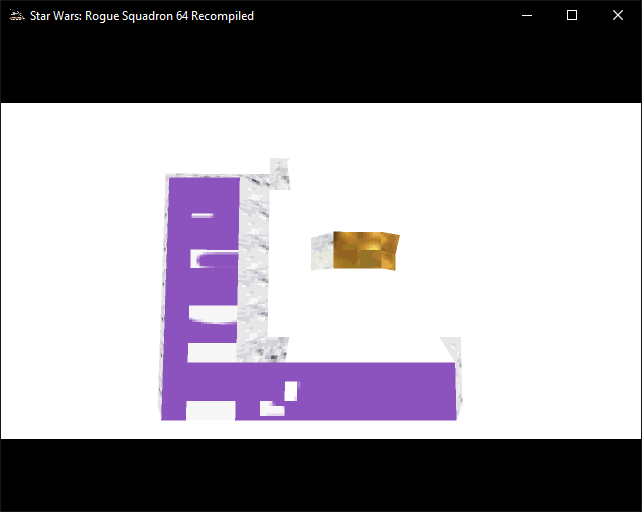
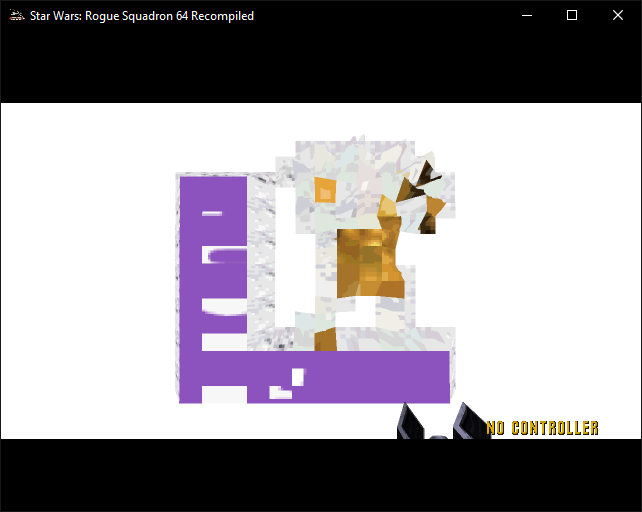
Add RT64 raster env knobs, F5 entity ID mapping
Expose RT64 raster configuration and F5 interpolation helpers.

- docs: document new env vars (ROGUESQ_F5_NON, ROGUESQ_F5_INTERP, MSAA, RES_SCALE, SSAA, WIDESCREEN/ASPECT, HDR, TEX_FILTER, TEXTURE_PACK).
- src/main/rt64_render_context.cpp: read env vars into RT64::UserConfiguration, print diagnostics, and load replacement texture packs.
- src/main/upstream_compat.cpp: add level-scoped stable F5 entity ID map and scene-node helper for per-object interpolation (ROGUESQ_F5_ID_LOG).
- Add/update reference/progress screenshots.

Changed region(s): [[0.2492, 0.25, 0.9346, 0.875]]

diff --git a/src/main/rt64_render_context.cpp b/src/main/rt64_render_context.cpp
@@ -6,6 +6,7 @@
 #include <cstring>
 #include <string_view>
 #include <vector>
+#include <filesystem>
 
 #define HLSL_CPU
 #include "hle/rt64_application.h"
@@ -185,6 +186,64 @@ public:
         app->userConfig.developerMode = debug || dev_mode_on;
         app->userConfig.displayBuffering = RT64::UserConfiguration::DisplayBuffering::Triple;
 
+        // Phase 0 RT64 raster enhancements (config-only; opt-in via env/--set so the default
+        // baseline is unchanged). See plans/rt64-f5-integration-plan.md.
+        {
+            using UC = RT64::UserConfiguration;
+            // ROGUESQ_MSAA=2|4|8: multisample anti-aliasing (default off).
+            if (const char* v = std::getenv("ROGUESQ_MSAA")) {
+                int s = std::atoi(v);
+                app->userConfig.antialiasing = (s >= 8) ? UC::Antialiasing::MSAA8X
+                                             : (s >= 4) ? UC::Antialiasing::MSAA4X
+                                             : (s >= 2) ? UC::Antialiasing::MSAA2X
+                                                        : UC::Antialiasing::None;
+                fprintf(stderr, "[RT64] MSAA=%ux\n", UC::msaaSampleCount(app->userConfig.antialiasing));
+            }
+            // ROGUESQ_RES_SCALE=<mult>: internal render-resolution multiplier (Manual).
+            if (const char* v = std::getenv("ROGUESQ_RES_SCALE")) {
+                double m = std::atof(v);
+                if (m > 0.0) {
+                    app->userConfig.resolution = UC::Resolution::Manual;
+                    app->userConfig.resolutionMultiplier = m;
+                    fprintf(stderr, "[RT64] resolutionMultiplier=%.2f\n", m);
+                }
+            }
+            // ROGUESQ_SSAA=<n>: supersample/downsample factor (>=2 sharper, costlier).
+            if (const char* v = std::getenv("ROGUESQ_SSAA")) {
+                int d = std::atoi(v);
+                if (d >= 1) { app->userConfig.downsampleMultiplier = d; fprintf(stderr, "[RT64] downsample=%d\n", d); }
+            }
+            // ROGUESQ_ASPECT=<w/h> forces a ratio; ROGUESQ_WIDESCREEN=1 expands to the window.
+            if (const char* v = std::getenv("ROGUESQ_ASPECT")) {
+                double a = std::atof(v);
+                if (a > 0.0) {
+                    app->userConfig.aspectRatio = UC::AspectRatio::Manual;
+                    app->userConfig.aspectTarget = a;
+                    fprintf(stderr, "[RT64] aspect=Manual %.4f\n", a);
+                }
+            } else if (const char* w = std::getenv("ROGUESQ_WIDESCREEN")) {
+                if (w[0] && w[0] != '0') {
+                    app->userConfig.aspectRatio = UC::AspectRatio::Expand;
+                    fprintf(stderr, "[RT64] aspect=Expand\n");
+                }
+            }
+            // ROGUESQ_HDR=1: high internal color format.
+            if (const char* v = std::getenv("ROGUESQ_HDR")) {
+                if (v[0] && v[0] != '0') {
+                    app->userConfig.internalColorFormat = UC::InternalColorFormat::High;
+                    fprintf(stderr, "[RT64] HDR internal color format\n");
+                }
+            }
+            // ROGUESQ_TEX_FILTER=nearest|linear|aa: texture filtering.
+            if (const char* v = std::getenv("ROGUESQ_TEX_FILTER")) {
+                std::string_view s(v);
+                if (s == "nearest") app->userConfig.filtering = UC::Filtering::Nearest;
+                else if (s == "linear") app->userConfig.filtering = UC::Filtering::Linear;
+                else if (s == "aa") app->userConfig.filtering = UC::Filtering::AntiAliasedPixelScaling;
+                fprintf(stderr, "[RT64] filtering=%s\n", v);
+            }
+        }
+
         // PresentEarly ON by default. Our cinematic stays on a single VI fb
         // address; without PresentEarly, RT64's updateScreen only pushes a
         // present when VI changes or RDRAM at VI_ORIGIN changes — neither
@@ -245,6 +304,21 @@ public:
                     (int)app->enhancementConfig.f3dex.forceBranch,
                     (int)app->enhancementConfig.textureLOD.scale);
             fflush(stderr);
+
+            // Phase 1: texture packs. ROGUESQ_TEXTURE_PACK=<dir-or-zip> loads an RT64 replacement
+            // directory (rt64.json + DDS/PNG). F5 loads textures through the normal RDP TMEM path, so
+            // RT64's content hashes are stable and replacements resolve the same as a stock-ucode game.
+            // See plans/rt64-f5-integration-plan.md.
+            if (const char* tp = std::getenv("ROGUESQ_TEXTURE_PACK")) {
+                if (tp[0] && app->textureCache) {
+                    std::vector<RT64::ReplacementDirectory> dirs;
+                    dirs.emplace_back(std::filesystem::path(tp));
+                    bool ok = app->textureCache->loadReplacementDirectories(dirs);
+                    app->textureCache->textureMap.replacementMapEnabled = ok;
+                    fprintf(stderr, "[RT64] texture pack '%s' load %s\n", tp, ok ? "OK" : "FAILED");
+                    fflush(stderr);
+                }
+            }
         }
         if (app && app->appWindow) {
             // Diagnostic: dump the post-setup state of RT64's window/filter

diff --git a/src/main/upstream_compat.cpp b/src/main/upstream_compat.cpp
@@ -1370,6 +1370,45 @@ extern "C" void rs64_matpool_alloc_check(unsigned addr, unsigned size) {
 // 0x18-aligned from the pool base. Reports the FIRST corruption seen, plus
 // which texture-material function's entry detected it — so the corrupting
 // function can be bisected from the call sequence.
+// Phase 2 (RT64 per-object interpolation): level-scoped stable id map. Assigns a stable, unique id per
+// persistent gameplay entity (meshInstance pointer) — the identity RT64 interpolation matching needs. The
+// entity pointer is stable within a level (proven via the [lodsel] trace) but the heap reuses addresses
+// across levels, so the map is reset on level change (level id @ 0x80130B70). ROGUESQ_F5_ID_LOG logs
+// first-sightings so we can confirm the id set stabilizes (NEW lines stop after the first frame).
+// See plans/rt64-f5-integration-plan.md.
+static std::map<uint32_t, uint32_t> s_f5_id_map;
+static uint32_t s_f5_id_next = 1;
+static int      s_f5_id_level = -1;
+extern "C" uint32_t rs64_f5_entity_id(uint8_t* rdram, uint32_t entity) {
+    static int s_log = -1;
+    if (s_log < 0) { const char* e = std::getenv("ROGUESQ_F5_ID_LOG"); s_log = (e && *e && *e != '0') ? 1 : 0; }
+    int level = (int)MEM_BU(0, (gpr)(int32_t)0x80130B70);
+    if (level != s_f5_id_level) {
+        s_f5_id_level = level; s_f5_id_map.clear(); s_f5_id_next = 1;
+        if (s_log) { fprintf(stderr, "[f5id] level=%d -> id map reset\n", level); fflush(stderr); }
+    }
+    if (entity < 0x80000000u || entity >= 0x80800000u) return 0;
+    auto it = s_f5_id_map.find(entity);
+    if (it != s_f5_id_map.end()) return it->second;
+    uint32_t id = s_f5_id_next++;
+    s_f5_id_map.emplace(entity, id);
+    if (s_log) { fprintf(stderr, "[f5id] NEW entity=%08X -> id=%u (level=%d, total=%zu)\n",
+                         entity, id, level, s_f5_id_map.size()); fflush(stderr); }
+    return id;
+}
+
+// Broad-coverage variant: hook processSceneNode (the scene-graph per-node visitor). The scene NODE is
+// transient, but node->object (+0x8) is the persistent entity (deduped per frame via object+0x30). Reads
+// the object and assigns it a stable id via the shared level-scoped map. Skips transform/group nodes
+// (object == 0). Measures how much of the ~71-object set the scene graph actually covers vs the
+// per-NPC-type handlers. See plans/rt64-f5-integration-plan.md.
+extern "C" unsigned int rs64_f5_entity_id(uint8_t*, unsigned int);
+extern "C" void rs64_f5_scenenode_id(uint8_t* rdram, unsigned int node) {
+    if (node < 0x80000000u || node >= 0x80800000u) return;
+    unsigned int obj = (unsigned int)MEM_W(0, (gpr)(int32_t)(node + 0x8));
+    if (obj >= 0x80000000u && obj < 0x80800000u) rs64_f5_entity_id(rdram, obj);
+}
+
 extern "C" void rs64_matfreelist_check(uint8_t* rdram, const char* where) {
     static int s_on = -1;
     if (s_on < 0) {

diff --git a/docs/debug-trace-env-vars.md b/docs/debug-trace-env-vars.md
@@ -72,6 +72,8 @@ they're orthogonal to the log gates above but commonly co-used.
 | `ROGUESQ_SUPPRESS_OOB_CIMG` | off | When set, drops Factor 5 ucode emissions of bogus SET_COLOR_IMAGE commands at HIGH (≥ 0x800000) and LOW (< 0x100000) addresses before they reach RT64. Reduces the iter-810 memory spike but causes a visual regression — the 3D Factor 5 logo no longer renders, since some legitimate Factor 5 lowmem CIMGs are dropped along with the garbage. |
 | `ROGUESQ_FB_GUARDS` | on | Host framebuffer-window guards. Set `0` to disable for A/B comparison against hardware goldens. |
 | `ROGUESQ_F5_CHUNK_BOUND` | on | Factor 5 DL chunk-bounded fetch grammar rule. Set `0` to disable when diagnosing a DL desync. |
+| `ROGUESQ_F5_NON` | off | Force `NoN` (No-Near-clipping) for the Factor 5 ucode: `1` disables the GPU hard near-plane clip and uses the far-plane manual clamp instead. F5 uniquely ships `NoN=false`, so `depthClipEnabled=true` discards large geometry as it approaches the camera (objects "culled / lower-detail up close"). A/B fix for that symptom; matches every other `.NoN` ucode. Applied in `RSP::setGBI` (`lib/rt64/src/hle/rt64_rsp.cpp`). |
+| `ROGUESQ_F5_INTERP` | off | Give each Factor 5 object a stable per-object identity for RT64's 60 fps frame interpolation. F5 never stamps a matrix group, so every object defaults to `G_EX_ID_AUTO` and RT64 greedily geometry-matches similar moving ships across frames → mismatched-pair **smearing/trails** (worst on fast/close objects — the "worse up close" symptom). `1` stamps each per-object modelview (`op_01_matrix`) with a distinct `G_EX_ORDER_LINEAR` id + pos/rot/scale interpolation, resetting the draw-order counter on each projection load. Applied in `lib/rt64/src/gbi/rt64_gbi_f3dfactor5.cpp`. |
 | `ROGUESQ_LLE_FORCE` | off | Route `M_GFXTASK` through the recompiled RSP ucode + `dpc_bridge.cpp` instead of RT64 HLE. Diagnostic only — semi-broken (cinematic tasks hit an unhandled jump). Companions `ROGUESQ_LLE_UNGATED` (skip the attribution-page gate) and `ROGUESQ_LLE_SOLO` (skip the HLE fallthrough). |
 
 ### Boot / attract-demo navigation
@@ -85,6 +87,24 @@ game RDRAM each present, same pattern as the other pokes.
 | `ROGUESQ_CINE_FASTFWD` | `0` | Adds N extra ticks to the VI-retrace count (`0x8011A890`) each present while the intro cutscene is active and its `gateCtr` (`0x800B0B28`) is below the end threshold (`cutscene[0x44]-0xA`). Inflates the cinematic dt so the intro completes NATURALLY in seconds instead of ~6 min headless. Not a skip — the game still sets its own done bits. Use e.g. `=200`. |
 | `ROGUESQ_SKIP_DEMO` | (unset) | Pins `gGameSettings.demoId` (`0x80130B54`) = N (0-5) every present, and pins the wrap counter `unk15` (`0x80130B55`) = 0 so `cycleIdleDemoId` (`0x8006F044`) can't drift the selector — so the attract mode plays (and LOOPS) that demo directly, skipping earlier demos + transitions. `demoId`→level: **0**=Mos Eisley/Tatooine, **1**=Jade Moon, **2**=Kile II, **3**=Taloraan, **4**=Fest, **5**=Trench Run (`dLevelByDemoId` `0x800CD404` = `00 05 07 0A 0B 11`; `gDemoFilenames` `0x80109AE4`). Combine with `ROGUESQ_CINE_FASTFWD` to blast the intro. Example: `ROGUESQ_SKIP_DEMO=1 ROGUESQ_CINE_FASTFWD=200` → Jade Moon in ~2 min. Selector RE in [plans/jade-moon-demo-freeze-plan.md](../plans/jade-moon-demo-freeze-plan.md). |
 | `ROGUESQ_SKIP_TO_JADEMOON` | off | Convenience alias for `ROGUESQ_SKIP_DEMO=1` (the Jade Moon demo — has the structure-explosion freeze under investigation). |
+
+### RT64 raster enhancements (Phase 0)
+
+Opt-in `UserConfiguration` knobs applied in `create_render_context` (`src/main/rt64_render_context.cpp`)
+before `app->setup()`. Raster-only (this build has `RT_ENABLED` off — no RT/DLSS/FSR/XeSS). See
+[plans/rt64-f5-integration-plan.md](../plans/rt64-f5-integration-plan.md). Default baseline is unchanged
+unless set.
+
+| Env Var | Default | Effect |
+|---|---|---|
+| `ROGUESQ_MSAA` | off | Multisample anti-aliasing: `2`/`4`/`8` → MSAA 2x/4x/8x (rounds down; `<2` = None). |
+| `ROGUESQ_RES_SCALE` | (RT64 2x) | Internal render-resolution multiplier; sets `resolution=Manual` + `resolutionMultiplier=<mult>` (e.g. `3.0`). Clamped by RT64's limit in `validate()`. |
+| `ROGUESQ_SSAA` | `1` | Supersample downsample factor (`>=2` renders higher then downsamples — sharper, costlier). |
+| `ROGUESQ_WIDESCREEN` | off | `1` → `aspectRatio=Expand` (fills the window aspect). F5 HUD/2D may need alignment work at non-4:3 (plan Phase 1b). |
+| `ROGUESQ_ASPECT` | (unset) | Force a specific aspect ratio as a decimal `w/h` (e.g. `1.7777`); sets `aspectRatio=Manual`. Takes precedence over `ROGUESQ_WIDESCREEN`. |
+| `ROGUESQ_HDR` | off | `1` → `internalColorFormat=High` (higher-precision internal color target). |
+| `ROGUESQ_TEX_FILTER` | `aa` | Texture filtering: `nearest` / `linear` / `aa` (AntiAliasedPixelScaling). |
+| `ROGUESQ_TEXTURE_PACK` | (unset) | Load an RT64 texture-replacement pack (a directory or `.zip` containing `rt64.json` + DDS/PNG) and enable replacements. F5 loads textures through the normal RDP TMEM path so RT64's content hashes are stable — packs resolve exactly as for a stock-ucode game. Applied after `app->setup()` via `textureCache->loadReplacementDirectories`. Authoring a pack uses RT64's developer dump workflow (see Zelda64Recomp's texture-pack tooling); the loader here is the runtime consumer. |
 
 ## How to add a new debug trace
 
